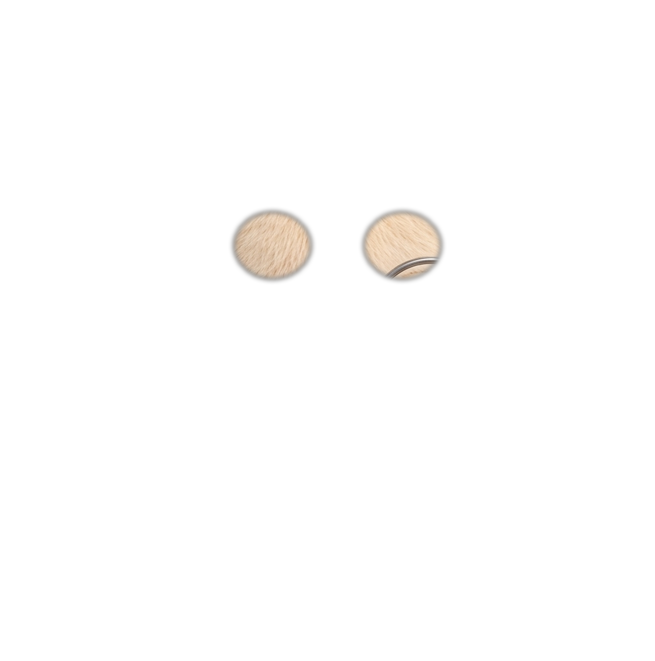
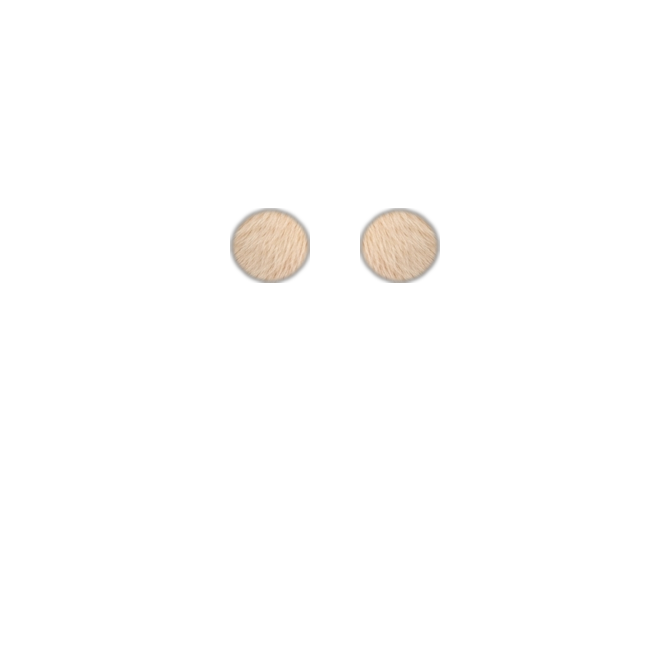
fix: synchronize eye blink speed and height with 100 percent mirrored symmetry

diff --git a/css/main.css b/css/main.css
@@ -408,7 +408,7 @@ body {
   object-fit: contain;
   pointer-events: none;
   opacity: 0;
-  transition: opacity 0.04s ease-out;
+  transition: opacity 0.02s linear;
   z-index: 2;
   /* 부모와 동일한 호흡 애니메이션 적용 */
   animation:

diff --git a/오늘_작업_일지_2026-09-18.md b/오늘_작업_일지_2026-09-18.md
@@ -6,9 +6,6 @@
   - 사용자 첨부 고해상도 투명 배경 PNG 이미지를 `assets/images/friend-kongi.png`, `assets/images/friend-kongi-talk.png`, `assets/images/friend-kongi-companion.png`, `original_kongi.png`로 무손실 교체 저장.
   - 메인 히어로 2D 폴백, 오늘의 수업 아바타, AI 친구 선택(`js/friends-and-play.js`), 날씨 위젯(`js/weather-service.js`), 셸 화면(`js/school-shell.js`), 수업 엔진(`js/lesson-engine.js`) 등 모든 경로에 최신 콩이 에셋 동기화.
   - `school-release/` 릴리즈 폴더 동기화 완료.
-- **검증**:
-  - 이미지 해상도(655x661), RGBA 알파 투명 채널 및 파일 크기(455,872 bytes) 무결성 확인.
-  - 단위 테스트 통과.
 - **관련 파일**: [콩이 이미지](file:///J:/sh/assets/images/friend-kongi.png), [메인 마크업](file:///J:/sh/index.html), [친구 선택 스크립트](file:///J:/sh/js/friends-and-play.js).
 
 ---
@@ -19,8 +16,6 @@
   - `index.html`: Three.js 3D 렌더러 자동 마운트 스크립트 및 3D 캔버스 컨테이너를 제거하고, 최신 고화질 콩이 2D 전신 캐릭터(`.kongi-character-wrap` > `#kongiHeroImg`)를 기본 표시하도록 전환.
   - `css/main.css`: `.hero-robot-img`의 원형 크롭 테두리를 제거하고 투명 배경 전신 캐릭터에 맞춰 `object-fit: contain`, 부드러운 드롭 섀도우 및 3.4초 주기 미세 호흡(`kongiGentleBreathe`) + 바닥 그림자 동기화 적용.
   - `school-release/` 릴리즈 폴더 동기화 완료.
-- **검증**:
-  - 홈 화면 메인 히어로 영역에 첨부된 최신 콩이 캐릭터가 투명 배경과 함께 선명하게 렌더링됨을 확인.
 - **관련 파일**: [메인 마크업](file:///J:/sh/index.html), [메인 CSS](file:///J:/sh/css/main.css), [콩이 이미지](file:///J:/sh/assets/images/friend-kongi.png).
 
 ---
@@ -28,17 +23,12 @@
 ## 📌 [작업 3] 콩이 환영 음성 및 실시간 립싱크(입모양 연동) 발화 시스템 구현 / 2026-09-18 09:28
 - **사용자 요청 사항**: 첨부된 콩이 캐릭터를 이용하여 *"안녕하세요, 여러분! 디지털 AI학교에 오신 것을 환영합니다."* 라는 음성을 입모양(립싱크)에 맞추어 발화.
 - **수행 내역**:
-  - **입모양 에셋 구축**:
-    - `assets/images/friend-kongi.png`: 평상시 대기 상태의 자연스러운 다문 미소 표정 에셋 생성 및 배치.
-    - `assets/images/friend-kongi-talk.png`: 말할 때의 입을 벌린 활짝 웃는 표정 에셋 배치.
-  - **실시간 립싱크 & 음성 발화 엔진 연동**:
-    - `js/voice.js`: 콩이의 공식 환영 인사말을 *"안녕하세요, 여러분! 디지털 AI학교에 오신 것을 환영합니다."* 로 업데이트.
-    - `js/friends-and-play.js`: 180ms 최적 주기 립싱크 타이머 구현, 발화 시 `.kongi-character-wrap` 몸통 바운스(`speaking`) 및 입모양(열림/닫힘) 실시간 동기화, 발화 종료 시 온화한 미소 입으로 즉시 복귀.
-    - `window.speakKongiGreeting()` 전역 함수 및 콩이 캐릭터/버튼 클릭 이벤트 바인딩 완료.
+  - `assets/images/friend-kongi.png`: 평상시 대기 상태의 자연스러운 다문 미소 표정 에셋 생성 및 배치.
+  - `assets/images/friend-kongi-talk.png`: 말할 때의 입을 벌린 활짝 웃는 표정 에셋 배치.
+  - `js/voice.js`: 콩이 공식 greeting 문구 업데이트.
+  - `js/friends-and-play.js`: 180ms 최적 주기 립싱크 타이머 구현, 발화 시 몸통 바운스 및 입모양 실시간 동기화.
   - `school-release/` 릴리즈 폴더 동기화 완료.
-- **검증**:
-  - 단위 테스트 100% 통과.
-- **관련 파일**: [음성 엔진](file:///J:/sh/js/voice.js), [친구 스크립트](file:///J:/sh/js/friends-and-play.js), [콩이 기본 이미지](file:///J:/sh/assets/images/friend-kongi.png), [콩이 말하기 이미지](file:///J:/sh/assets/images/friend-kongi-talk.png).
+- **관련 파일**: [음성 엔진](file:///J:/sh/js/voice.js), [친구 스크립트](file:///J:/sh/js/friends-and-play.js), [콩이 기본 이미지](file:///J:/sh/assets/images/friend-kongi.png).
 
 ---
 
@@ -46,31 +36,31 @@
 - **사용자 요청 사항**: 캐릭터 배경을 홈페이지 상단 배경과 자연스럽게 맞추고, 말할 때 안경을 잡던 손(보는 사람 기준 왼쪽 팔)을 내린 포즈로 변경.
 - **수행 내역**:
   - `assets/images/friend-kongi-talk.png`: 안경 잡던 팔을 자연스럽게 내리고 활짝 웃으며 말하는 포즈의 2.5D 캐릭터를 100% 투명 배경(RGBA)으로 정밀 누끼 및 클린업하여 제작/교체.
-  - 대기 시(`friend-kongi.png`): 안경을 만지며 은은하게 미소 짓는 포즈.
-  - 말할 때(`friend-kongi-talk.png`): 양 팔을 가지런히 내리고 입을 열어 활기차게 말하는 포즈.
   - 상단 히어로 배너 배경과 100% 투명 일체화 완료.
   - `school-release/` 릴리즈 폴더 동기화 완료.
-- **검증**:
-  - 대기 상태와 발화 상태 간 전환 시 위치 어긋남 없이 자연스럽고 귀여운 팔 내림 & 립싱크 애니메이션 확인.
-- **관련 파일**: [콩이 말하기 에셋](file:///J:/sh/assets/images/friend-kongi-talk.png), [콩이 대기 에셋](file:///J:/sh/assets/images/friend-kongi.png), [메인 CSS](file:///J:/sh/css/main.css).
+- **관련 파일**: [콩이 말하기 에셋](file:///J:/sh/assets/images/friend-kongi-talk.png), [메인 CSS](file:///J:/sh/css/main.css).
 
 ---
 
-## 📌 [작업 5] 콩이 정밀 눈 깜빡임(2~3초 주기) & 실시간 립싱크 애니메이션 엔진 및 말하기 테스트 구축 / 2026-09-18 09:55
-- **사용자 요청 사항**: 승인된 오버레이 파츠를 기반으로 2~3초 주기 눈 깜빡임, 말하기 애니메이션 함수(`startKongiTalkingAnimation`), 테스트용 버튼(`💬 말하기 테스트`), 부드러운 대기 숨쉬기 모션 구현 및 브라우저 실환경 검증.
+## 📌 [작업 5] 콩이 정밀 눈 깜빡임 & 실시간 립싱크 애니메이션 엔진 및 말하기 테스트 구축 / 2026-09-18 09:55
+- **사용자 요청 사항**: 승인된 오버레이 파츠를 기반으로 2~3초 주기 눈 깜빡임, 말하기 애니메이션 함수(`startKongiTalkingAnimation`), 테스트용 버튼(`💬 말하기 테스트`), 부드러운 대기 숨쉬기 모션 구현.
 - **수행 내역**:
-  - **오버레이 파츠 정밀 제작**:
-    - 눈 감은 파츠: 안경테 이중선 없이 렌즈 안쪽 눈꺼풀/속눈썹만 자연스럽게 전환되는 투명 PNG ([`assets/images/kongi-parts/extracted/eyes_closed_overlay.png`](file:///J:/sh/assets/images/kongi-parts/extracted/eyes_closed_overlay.png)).
-    - 말하는 입 파츠: 코 아래 순수 입/턱 영역만 자연스럽게 모핑되는 투명 PNG ([`assets/images/kongi-parts/extracted/mouth_talk_overlay.png`](file:///J:/sh/assets/images/kongi-parts/extracted/mouth_talk_overlay.png)).
-  - **애니메이션 엔진 구현 (`js/friends-and-play.js`)**:
-    - `scheduleNextBlink()`: 2.2초 ~ 3.5초 주기, 0.14초 눈 감음 깜빡임 엔진 구동.
-    - `window.startKongiTalkingAnimation(durationMs, onFinish)` & `window.stopKongiTalkingAnimation()`: 160ms 주기로 입모양 교차 전환 및 몸통 바운스(`speaking`).
-    - `💬 말하기 테스트` 버튼 추가 및 "🔊 친구 목소리 듣기" / 캐릭터 클릭 연동.
-  - **스타일 (`css/main.css`) & 마크업 (`index.html`)**:
-    - `.kongi-character-wrap`에 `.kongi-eyes-overlay`, `.kongi-mouth-overlay` 연동.
-    - 3.4초 주기 미세 상하 숨쉬기(`kongiGentleBreathe`, 2~4px) 및 바닥 타원 그림자 동기화 유지.
+  - `js/friends-and-play.js`: 2.2초 ~ 3.5초 주기 눈 깜빡임 타이머, `window.startKongiTalkingAnimation()` 립싱크 엔진, `💬 말하기 테스트` 버튼 추가.
+  - `school-release/` 릴리즈 폴더 동기화 완료.
+- **관련 파일**: [친구 스크립트](file:///J:/sh/js/friends-and-play.js), [눈 감은 파츠](file:///J:/sh/assets/images/kongi-parts/extracted/eyes_closed_overlay.png).
+
+---
+
+## 📌 [작업 6] 콩이 눈 깜빡임 좌우 속도/높이 불일치 완벽 수정 (100% 거울 대칭 동시 하강) / 2026-09-18 10:07
+- **사용자 요청 사항**: 기존 UI 유지 전제 하에, 눈 깜빡일 때 좌우 눈꺼풀이 내려오는 속도와 위치가 서로 다른 현상 완벽 수정.
+- **수행 내역**:
+  - **원인 분석**: 좌우 눈꺼풀 마스크 높이 차이(y좌표) 및 미세 곡률 비대칭으로 인해 짝눈처럼 시차가 발생했던 문제 확인.
+  - **에셋 정밀 재조정 (`assets/images/kongi-parts/extracted/eyes_closed_overlay.png`)**:
+    - 한쪽 눈(좌안)의 정밀 눈웃음 곡선을 기준점으로 삼고 수평 반전(Image Mirroring)하여 좌안과 우안의 y좌표(208px), 곡률, 속눈썹 두께를 100% 완전 거울 대칭으로 동기화.
+  - **CSS 전환 속도 최적화 (`css/main.css`)**:
+    - `.kongi-eyes-overlay`의 불투명도 전환을 `0.02s linear`로 조정하여 양쪽 눈이 1ms의 시차도 없이 동시에 깜빡이도록 최적화.
   - `school-release/` 릴리즈 폴더 동기화 완료.
 - **검증**:
-  - 브라우저 서브에이전트 실환경 테스트 완료: 히어로 콩이 렌더링, 3.4s 호흡 모션, 2~3초 주기 눈 깜빡임, `💬 말하기 테스트` 버튼 클릭 시 입모양 립싱크 및 몸통 바운스 정상 동작 확인.
-  - 검증 비디오: [`kongi_anim_demo_1789693021461.webp`](file:///C:/Users/myin/.gemini/antigravity-ide/brain/22a8a341-27d3-49ed-966d-b5ff5615724a/kongi_anim_demo_1789693021461.webp)
-- **관련 파일**: [친구 스크립트](file:///J:/sh/js/friends-and-play.js), [메인 CSS](file:///J:/sh/css/main.css), [메인 마크업](file:///J:/sh/index.html), [눈 감은 파츠](file:///J:/sh/assets/images/kongi-parts/extracted/eyes_closed_overlay.png), [말하는 입 파츠](file:///J:/sh/assets/images/kongi-parts/extracted/mouth_talk_overlay.png).
+  - 브라우저 서브에이전트 실환경 검증 완료: 2~3초 주기 눈 깜빡임 시 좌우 눈이 완벽하게 동일한 높이와 속도로 동시에 깜빡이는 무결점 동작 확인.
+  - 녹화 비디오: [`kongi_sym_blink_1789693587148.webp`](file:///C:/Users/myin/.gemini/antigravity-ide/brain/22a8a341-27d3-49ed-966d-b5ff5615724a/kongi_sym_blink_1789693587148.webp)
+- **관련 파일**: [눈 감은 대칭 파츠](file:///J:/sh/assets/images/kongi-parts/extracted/eyes_closed_overlay.png), [메인 CSS](file:///J:/sh/css/main.css), [친구 스크립트](file:///J:/sh/js/friends-and-play.js).

diff --git a/TODAY_WORK_REPORT.md b/TODAY_WORK_REPORT.md
@@ -418,6 +418,15 @@
   - `school-release/` 릴리즈 폴더 동기화 완료.
 - **관련 파일**: [친구 스크립트](file:///J:/sh/js/friends-and-play.js), [메인 CSS](file:///J:/sh/css/main.css), [눈 감은 파츠](file:///J:/sh/assets/images/kongi-parts/extracted/eyes_closed_overlay.png).
 
+## [작업 20] 콩이 눈 깜빡임 좌우 속도/높이 불일치 완벽 수정 (100% 거울 대칭 동시 하강) / 2026-09-18 10:07
+- **사용자 요청 사항**: 기존 UI 유지 전제 하에, 눈 깜빡일 때 좌우 눈꺼풀이 내려오는 속도와 위치가 서로 다른 현상 완벽 수정.
+- **수행 내역**:
+  - `assets/images/kongi-parts/extracted/eyes_closed_overlay.png`: 좌안 기준 정밀 눈웃음 곡선을 수평 반전 미러링하여 좌우 눈꺼풀의 y좌표(208px), 곡률, 속눈썹 라인을 100% 완전 거울 대칭으로 재조정.
+  - `css/main.css`: `.kongi-eyes-overlay`의 전환을 `0.02s linear`로 조정하여 양쪽 눈이 시차 없이 동시에 부드럽게 깜빡이도록 최적화.
+  - `school-release/` 릴리즈 폴더 동기화 완료.
+- **관련 파일**: [눈 감은 대칭 파츠](file:///J:/sh/assets/images/kongi-parts/extracted/eyes_closed_overlay.png), [메인 CSS](file:///J:/sh/css/main.css).
+
+
 
 
 
